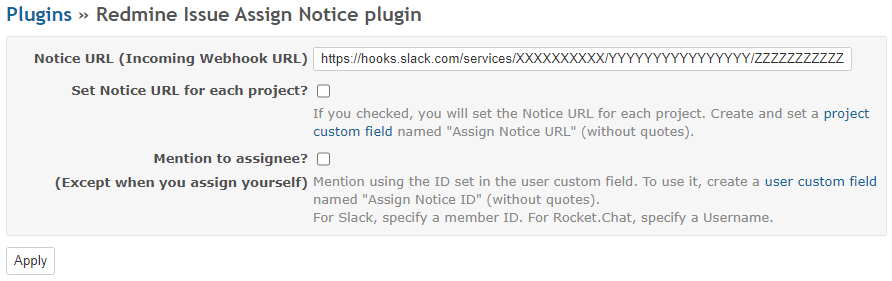
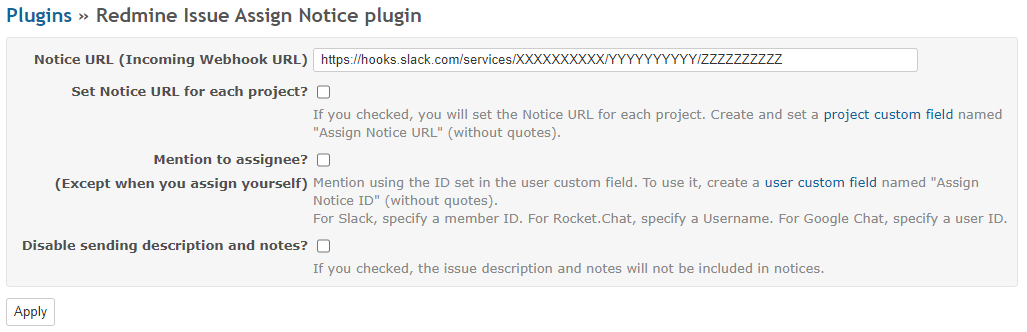
Add "Disable sending description and notes?" to REDME

diff --git a/README.ja.md b/README.ja.md
@@ -40,9 +40,9 @@ bundle install --without development test
 
 ![Screenshot of project setting](screenshots/project_setting.png)
 
-### Mention to assignee? (If is set by others)
+### Mention to assignee? (Except when you assign yourself)
 
-「Mention to assignee? (If is set by others)」をチェックすると、担当者となったユーザに対してのメンションをメッセージに含めることができます。ただし、担当者自身で設定したものは通知しません。
+「Mention to assignee? (Except when you assign yourself)」をチェックすると、担当者となったユーザに対してのメンションをメッセージに含めることができます。ただし、担当者自身で設定したものは通知しません。
 
 ![Screenshot of slack message](screenshots/slack_mention.png)
 
@@ -59,6 +59,10 @@ bundle install --without development test
 * Teams: UPN (メールアドレス)
 * Google Chat: ユーザID
 * Mattermost: ユーザ名
+
+### Disable sending description and notes?
+
+「Disable sending description and notes?」をチェックすると、説明および注記をメッセージに含みません。
 
 ## サポートバージョン
 

diff --git a/README.md b/README.md
@@ -40,9 +40,9 @@ The Notice URL for each project is set in the custom field "Assign Notice URL" o
 
 ![Screenshot of project setting](screenshots/project_setting.png)
 
-### Mention to assignee? (If is set by others)
+### Mention to assignee? (Except when you assign yourself)
 
-If you check "Mention to assignee? (If is set by others)", you can include mention for the user who was assigned to the message. However, the one set by the assignee themselves will not be notified.  
+If you check "Mention to assignee? (Except when you assign yourself)", you can include mention for the user who was assigned to the message. However, the one set by the assignee themselves will not be notified.  
 
 ![Screenshot of slack message](screenshots/slack_mention.png)
 
@@ -59,6 +59,10 @@ The ID to be entered depends on the notification destination.
 * Teams: UPN (email address)
 * Google Chat: user ID
 * Mattermost: user name
+
+### Disable sending description and notes?
+
+If you check "Disable sending description and notes?", the issue description and notes will not be included in notices.
 
 ## Supported versions
 
